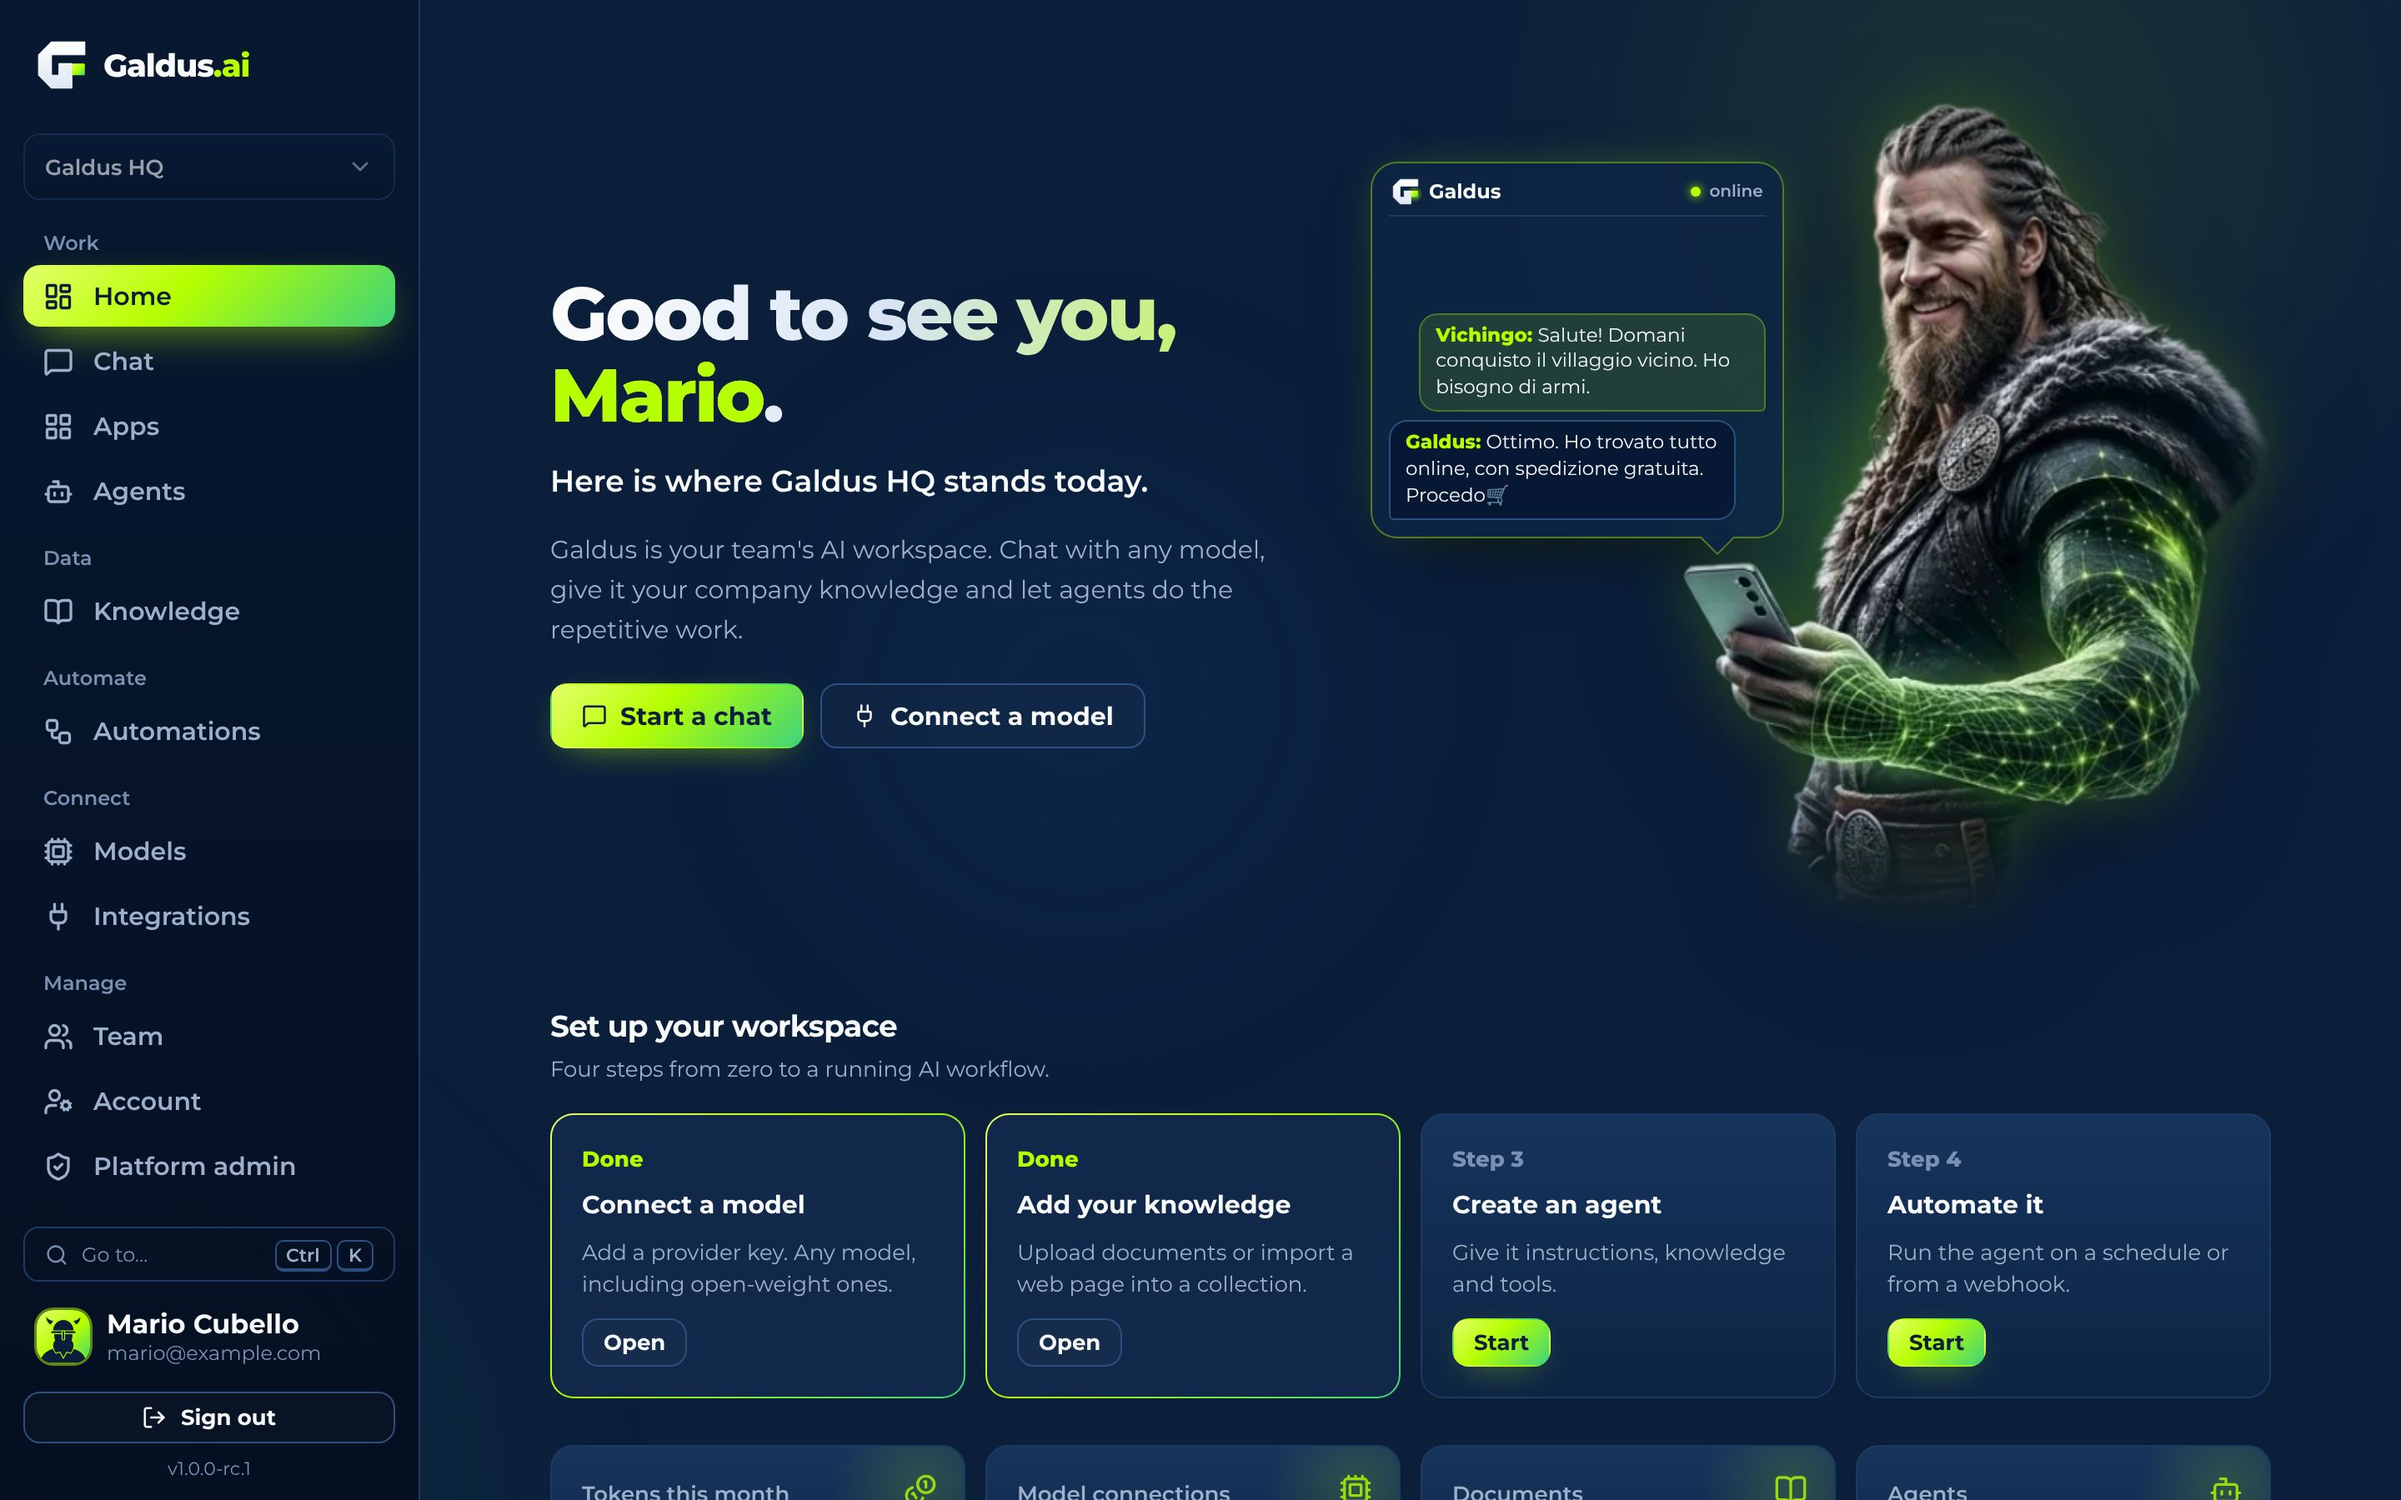
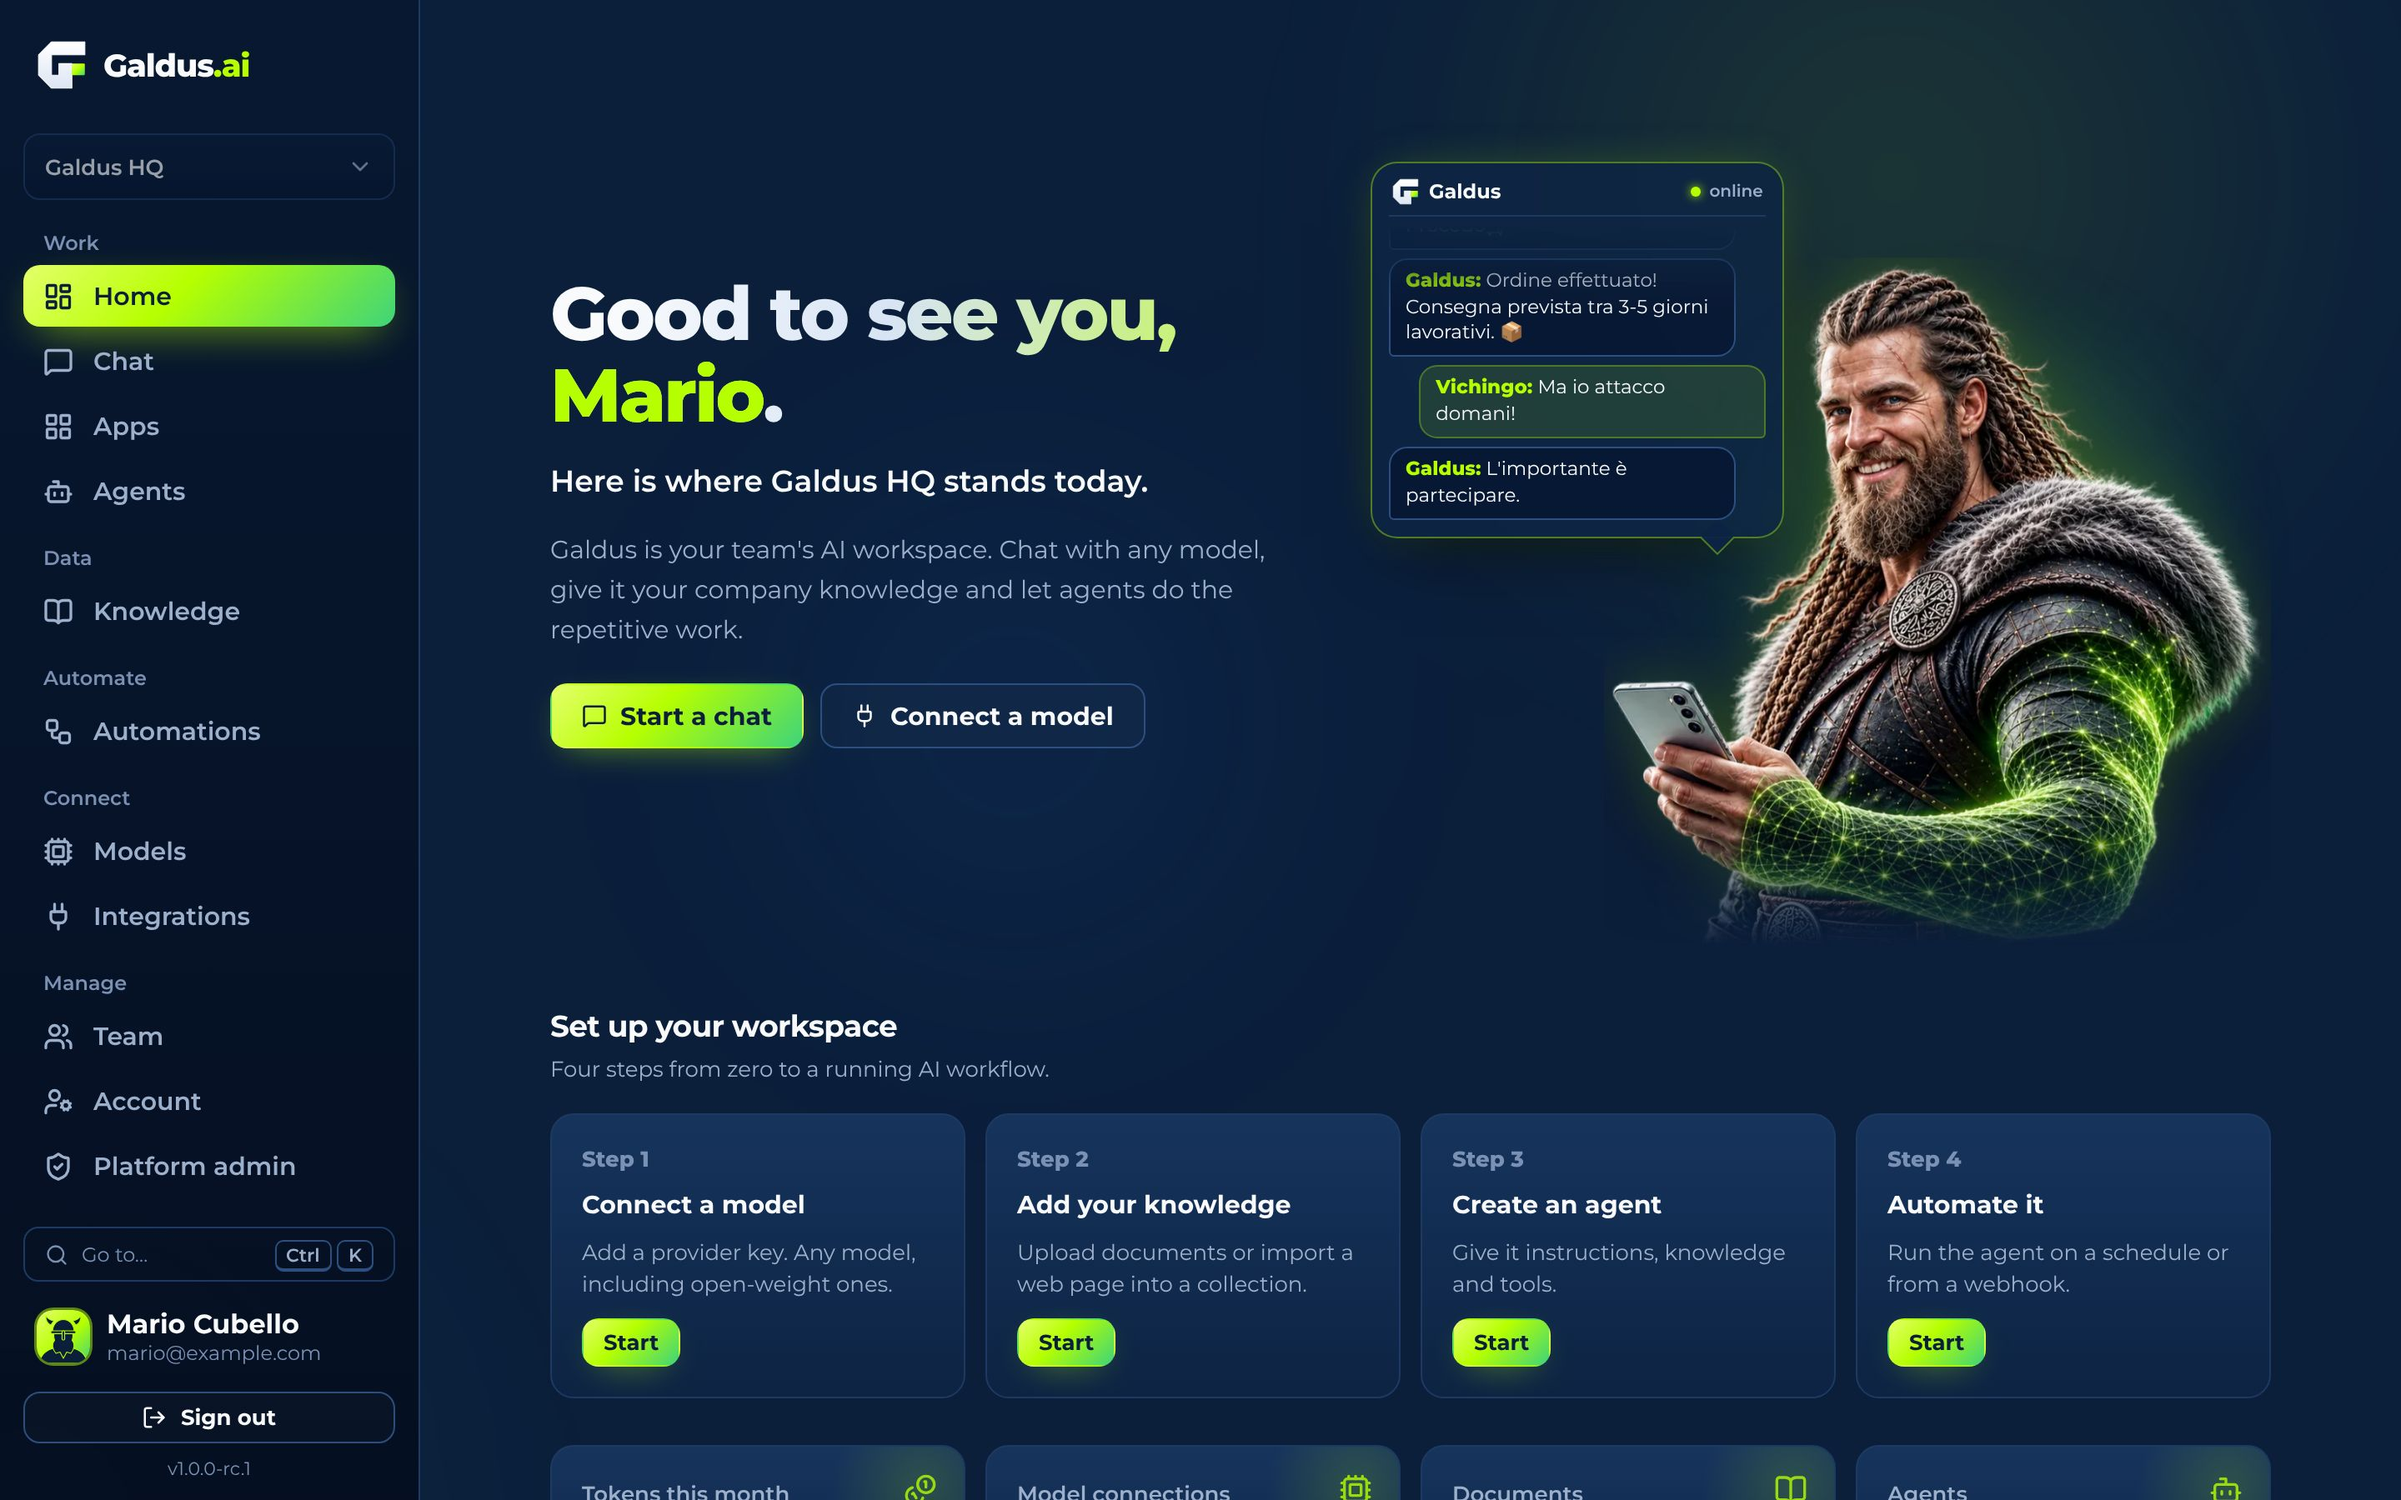
feat(web): HD Viking artwork with fade and motion on Home; sign-in effects re-traced on the new image
Claude-Session: https://claude.ai/code/session_015o78krqLo7r9D2dhfjLNmt

diff --git a/apps/web/src/hero.jsx b/apps/web/src/hero.jsx
@@ -15,8 +15,8 @@ import armMask from './assets/hero/arm-mask.png';
 // aligned to the photo in percentages so they stay on the arm at every screen size.
 
 const W = 1672, H = 941;
-// Mesh nodes on the digital arm, in % of the arm box (traced from the artwork).
-const NODES = [[33.39, 68.45], [35.6, 40.82], [45.69, 84.85], [37.8, 81.11], [63.85, 84.31], [16.7, 20.14], [29.17, 69.7], [10.64, 32.44], [83.12, 83.78], [51.56, 84.85], [39.63, 72.19], [9.91, 25.85], [79.45, 85.2], [35.05, 79.14], [13.21, 26.02], [13.39, 25.85], [41.1, 83.6], [51.19, 87.52], [42.57, 76.11], [26.97, 21.03], [13.76, 22.82], [36.33, 73.98], [19.08, 59.18], [31.38, 72.55], [20.0, 63.81], [61.28, 66.31], [32.84, 77.01], [62.2, 64.71], [31.38, 38.86], [78.35, 87.7], [85.87, 81.46], [44.04, 73.26], [36.51, 42.6], [49.72, 82.89], [88.26, 78.97], [33.39, 72.91], [86.79, 83.42], [13.21, 35.29], [54.68, 86.99], [32.29, 21.57], [19.63, 19.96], [61.47, 76.83], [36.88, 62.03], [34.31, 70.77], [63.49, 62.75], [45.14, 66.31], [31.56, 58.65], [22.75, 59.0], [38.17, 75.04], [13.76, 56.86], [55.41, 89.84], [59.63, 83.78], [52.66, 66.13], [65.69, 75.04], [15.23, 36.54], [65.69, 75.4], [20.0, 70.59], [20.37, 65.6], [27.71, 40.11], [66.79, 78.25], [30.28, 75.58], [93.03, 77.72], [57.06, 68.98], [27.34, 18.72], [46.61, 82.0], [14.5, 68.27], [57.98, 91.09], [74.5, 87.52], [51.56, 82.89], [18.35, 72.91]];
+// Mesh nodes on the digital arm, in % of the arm box (detected on the HD artwork: bright mesh joints inside arm-mask.png).
+const NODES = [[25.69, 65.78], [33.76, 68.63], [27.16, 22.46], [28.62, 62.92], [22.75, 73.98], [23.85, 55.79], [57.61, 84.31], [24.4, 20.32], [37.06, 20.68], [32.66, 22.82], [42.57, 24.96], [51.38, 87.34], [28.07, 69.16], [54.68, 81.82], [28.99, 9.09], [41.1, 81.64], [23.85, 16.22], [21.65, 23.17], [35.23, 70.77], [17.25, 65.6], [42.94, 78.97], [15.41, 62.92], [34.31, 63.28], [28.07, 16.93], [31.56, 18.36], [17.8, 54.55], [25.87, 73.62], [21.1, 18.36], [27.89, 34.94], [39.82, 84.49], [24.95, 29.41], [35.41, 40.64], [27.16, 60.43], [31.38, 63.99], [29.17, 75.58], [44.22, 87.88], [16.15, 19.43], [37.98, 72.73], [26.06, 79.68], [21.28, 59.89], [20.18, 77.01], [23.12, 25.31], [23.67, 70.05], [39.27, 75.04], [43.49, 82.89], [39.27, 40.46], [14.31, 56.86], [55.41, 77.9], [33.76, 25.13], [17.43, 26.74], [20.92, 33.51], [35.96, 59.54], [46.61, 83.07], [21.47, 28.7], [31.38, 38.32], [43.67, 27.81], [22.02, 40.46], [13.21, 60.96], [18.9, 60.96], [14.13, 67.02], [48.44, 79.68], [54.86, 85.38], [33.76, 11.59], [27.52, 19.61], [35.96, 74.87], [60.18, 86.45], [24.22, 37.97], [19.27, 67.2], [60.92, 79.86], [19.27, 44.39]];
 
 function seeded(seed) { let s = seed; return () => { s = (s * 16807) % 2147483647; return (s - 1) / 2147483646; }; }
 

diff --git a/apps/web/src/style.css b/apps/web/src/style.css
@@ -807,8 +807,14 @@ input[type=range] { accent-color: var(--lime); padding: 0; background: none; bor
 .scene-glow { position: absolute; right: -6%; bottom: 4%; width: 92%; height: 92%; pointer-events: none; border-radius: 50%;
   background: radial-gradient(42% 38% at 58% 52%, rgba(182, 255, 0, .30), rgba(110, 220, 60, .14) 45%, transparent 72%),
               radial-gradient(60% 55% at 55% 55%, rgba(63, 212, 122, .12), transparent 70%); filter: blur(18px); }
-.scene-viking { position: absolute; right: 0; bottom: 0; width: 74%; height: auto; display: block;
-  filter: drop-shadow(0 0 18px rgba(182, 255, 0, .22)) drop-shadow(0 20px 30px rgba(2, 8, 20, .55)); }
+.scene-viking-wrap { position: absolute; right: 0; bottom: 0; width: 74%; }
+.scene-viking { display: block; width: 100%; height: auto; user-select: none;
+  filter: drop-shadow(0 0 18px rgba(182, 255, 0, .22)) drop-shadow(0 20px 30px rgba(2, 8, 20, .55));
+  /* The photo ends at the belt: fade it into the page instead of a hard edge. */
+  -webkit-mask-image: linear-gradient(to bottom, #000 80%, transparent 99%); mask-image: linear-gradient(to bottom, #000 80%, transparent 99%); }
+.scene-glow.live { animation: haloBreath 5.5s ease-in-out infinite; }
+@keyframes haloBreath { 0%, 100% { opacity: .75; } 50% { opacity: 1; } }
+@media (prefers-reduced-motion: reduce) { .scene-glow.live { animation: none; } }
 /* Chat bubble floating above the phone, tail pointing at it */
 .scene-bubble { --tail: 84%; position: absolute; left: 0; bottom: 47%; width: 46%; z-index: 1; display: grid; gap: 6px; padding: 9px 10px 10px;
   border-radius: 16px; background: rgba(14, 36, 68, .82); backdrop-filter: blur(10px); -webkit-backdrop-filter: blur(10px);
@@ -833,7 +839,7 @@ input[type=range] { accent-color: var(--lime); padding: 0; background: none; bor
 }
 @media (max-width: 600px) {
   .scene { width: 100%; max-width: 420px; justify-self: center; }
-  .scene-viking { width: 78%; }
+  .scene-viking-wrap { width: 78%; }
   .scene-bubble { --tail: 76%; width: 52%; bottom: 46%; padding: 7px 8px 8px; }
   .scene-chat { height: 132px; }
   .sbub { font-size: 10.5px; }

diff --git a/apps/web/src/home.jsx b/apps/web/src/home.jsx
@@ -105,9 +105,15 @@ function VikingScene() {
   }, [shown, inView, reduce]);
   return (
     <figure className="scene" ref={ref}>
-      <span className="scene-glow" aria-hidden="true" />
-      <img className="scene-viking" src={vikingPhone} alt="A smiling Viking with the Galdus lime warpaint, chatting with Galdus on his phone"
-        width="393" height="532" loading="lazy" decoding="async" />
+      <span className={`scene-glow ${reduce ? '' : 'live'}`} aria-hidden="true" />
+      {/* Fades and rises in, then floats gently; still with reduced motion. */}
+      <motion.div className="scene-viking-wrap"
+        initial={reduce ? false : { opacity: 0, y: 28, scale: .97, filter: 'blur(10px)' }}
+        animate={{ opacity: 1, y: 0, scale: 1, filter: 'blur(0px)' }} transition={{ duration: 1.1, ease: [0.16, 1, 0.3, 1] }}>
+        <motion.img className="scene-viking" src={vikingPhone} alt="A smiling Viking with a glowing digital arm, chatting with Galdus on his phone"
+          width="900" height="940" loading="lazy" decoding="async" draggable="false"
+          animate={reduce ? undefined : { y: [0, -6, 0] }} transition={{ duration: 6, repeat: Infinity, ease: 'easeInOut', delay: 1.2 }} />
+      </motion.div>
       <div className="scene-bubble" aria-hidden="true">
         <div className="scene-head"><Mark size={16} interactive={false} /><b>Galdus</b><span className="scene-live"><i />online</span></div>
         <ol className={`scene-chat ${reduce ? 'static' : ''}`}>

diff --git a/docs/RELEASE_CHECKLIST.md b/docs/RELEASE_CHECKLIST.md
@@ -66,7 +66,7 @@ In ordine di priorità. Non incollare mai i valori in chat: vanno solo nei panne
 10. **Attiva lo scheduler** (se non già fatto): genera un valore casuale, impostalo come `AUTOMATION_TOKEN` su Render e come secret `GALDUS_AUTOMATION_TOKEN` in GitHub, **Settings, Secrets and variables, Actions, Secrets**.
 11. **Completa GitHub.** **Settings, General, Social preview, Edit, Upload** con `docs/assets/social-preview.png`. Nella pagina del repository, ingranaggio accanto ad **About**: descrizione, sito `https://coobox-89.github.io/galdus.ai/`, topic (ai, llm, self-hosted, fastapi, react). **Settings, Code security**: attiva **Private vulnerability reporting** e **Dependabot alerts**. In alto, **Watch, All activity** per ricevere gli avvisi `incident`.
 12. **Primo backup.** Dal tuo computer: `DATABASE_URL=... BACKUP_PASSPHRASE=... ./scripts/backup-db.sh ~/galdus-backups` ([OPERATIONS.md](OPERATIONS.md#backups)); salva la passphrase nel password manager.
-14. **Materiali grafici.** Fornisci il simbolo ufficiale di Together AI (SVG dal suo brand kit, da mettere in `apps/web/public/brand/providers/together_ai.svg`) e l'immagine del vichingo ad alta risoluzione (almeno 2500 px di larghezza, sorgente senza compressione) per sostituire le versioni attuali.
+14. **Simbolo di Together AI.** L'immagine del vichingo ad alta risoluzione è stata fornita e integrata. Resta il simbolo ufficiale di Together AI: SVG dal suo brand kit, da mettere in `apps/web/public/brand/providers/together_ai.svg` (fino ad allora resta la sigla "TG").
 15. **Promuovi la versione a 1.0.0.** La release candidate [v1.0.0-rc.1](https://github.com/coobox-89/galdus.ai/releases/tag/v1.0.0-rc.1) è già pubblicata. Dopo circa una settimana di uso senza problemi: PR che porta la versione a `1.0.0` (codice e CHANGELOG), merge, poi GitHub, **Actions**, workflow **Release**, **Run workflow** su `main` per pubblicare `v1.0.0`. Non fa deploy né riavvii.
 
 Facoltativo: `RATE_LIMIT_BACKEND=postgres` su Render per non azzerare i blocchi a ogni riavvio.

diff --git a/CHANGELOG.md b/CHANGELOG.md
@@ -2,6 +2,14 @@
 
 # Changelog
 
+## [Unreleased]
+
+### Changed
+
+- HD Viking artwork. Sign-in: the new illustration replaces the reconstructed one (no more blurred patch on the right), registered to the same framing so the glow, sweep and sparks stay on the arm; the arm mask and the 70 spark points are traced again from the new image. Home: a larger cutout of the Viking with his phone (900 px instead of 393 px).
+- Home scene motion: the Viking fades and rises in, then floats gently; the lime halo breathes; the photo fades into the page at the belt. All of it stays still with reduced motion.
+- README screenshots of the sign-in page and Home updated.
+
 ## [1.0.0-rc.1] (2026-11-27)
 
 Release candidate after the production-readiness review ([security review](docs/security/review-2026-11-27.md), [release checklist](docs/RELEASE_CHECKLIST.md)).
